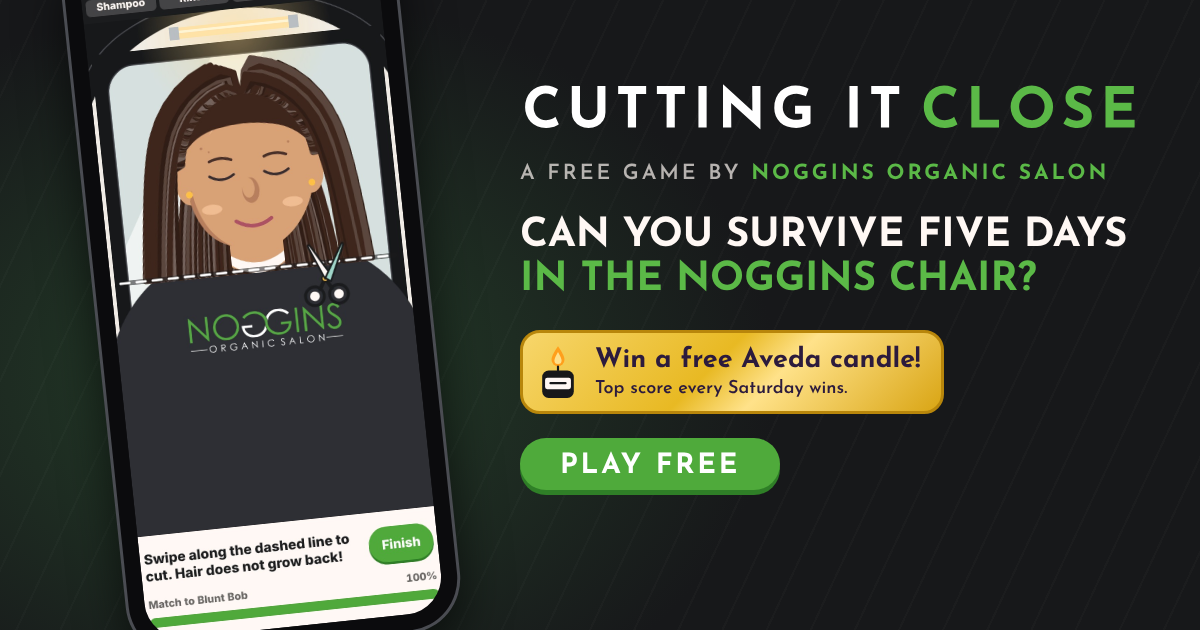
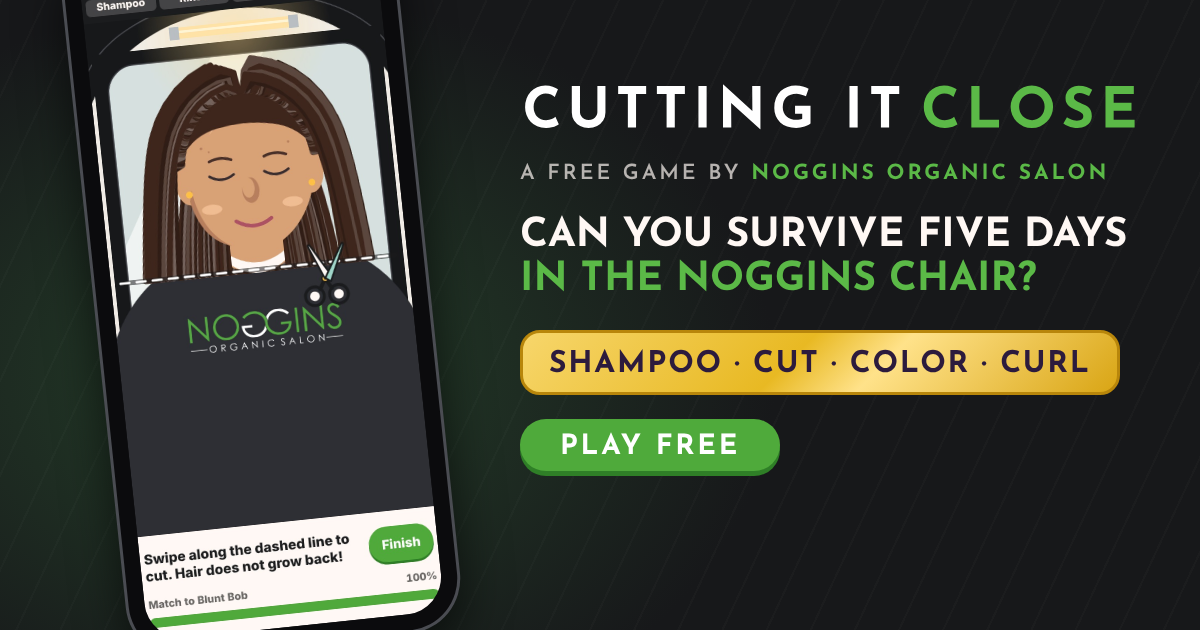
Generic link preview: no giveaway in the share picture or text
Claude-Session: https://claude.ai/code/session_01Sd2Ap7vipF3NZiTakFqJn7

Changed region(s): [[0.4317, 0.5127, 0.9558, 0.7841]]

diff --git a/index.html b/index.html
@@ -1,4 +1,4 @@
-<!doctype html><html lang="en"><head><meta charset="utf-8"><meta name="viewport" content="width=device-width,initial-scale=1,maximum-scale=1,user-scalable=no,viewport-fit=cover"><meta name="apple-mobile-web-app-capable" content="yes"><meta name="mobile-web-app-capable" content="yes"><meta name="apple-mobile-web-app-title" content="Cutting It Close"><meta name="apple-mobile-web-app-status-bar-style" content="black"><link rel="apple-touch-icon" href="apple-touch-icon.png"><link rel="icon" type="image/png" sizes="192x192" href="icon-192.png"><link rel="manifest" href="manifest.json"><meta name="description" content="Can you survive five days in the Noggins chair? A free salon game by Noggins Organic Salon. Top score every Saturday wins a free Aveda candle."><meta property="og:type" content="website"><meta property="og:url" content="https://gareth23broad.github.io/cutting-it-close/"><meta property="og:site_name" content="Noggins Organic Salon"><meta property="og:title" content="Cutting It Close: a free game by Noggins Organic Salon"><meta property="og:description" content="Can you survive five days in the Noggins chair? Top score every Saturday wins a free Aveda candle."><meta property="og:image" content="https://gareth23broad.github.io/cutting-it-close/share.png"><meta property="og:image:width" content="1200"><meta property="og:image:height" content="630"><meta property="og:image:alt" content="Cutting It Close: a phone showing the salon game, with Win a free Aveda candle and Play free"><meta name="twitter:card" content="summary_large_image"><meta name="twitter:image" content="https://gareth23broad.github.io/cutting-it-close/share.png"><meta name="theme-color" content="#17181A"><style>html,body{margin:0;padding:0}</style></head><body><title>Cutting It Close</title>
+<!doctype html><html lang="en"><head><meta charset="utf-8"><meta name="viewport" content="width=device-width,initial-scale=1,maximum-scale=1,user-scalable=no,viewport-fit=cover"><meta name="apple-mobile-web-app-capable" content="yes"><meta name="mobile-web-app-capable" content="yes"><meta name="apple-mobile-web-app-title" content="Cutting It Close"><meta name="apple-mobile-web-app-status-bar-style" content="black"><link rel="apple-touch-icon" href="apple-touch-icon.png"><link rel="icon" type="image/png" sizes="192x192" href="icon-192.png"><link rel="manifest" href="manifest.json"><meta name="description" content="Can you survive five days in the Noggins chair? A free salon game by Noggins Organic Salon. Shampoo, cut, color and curl your way to the top of the leaderboard."><meta property="og:type" content="website"><meta property="og:url" content="https://gareth23broad.github.io/cutting-it-close/"><meta property="og:site_name" content="Noggins Organic Salon"><meta property="og:title" content="Cutting It Close: a free game by Noggins Organic Salon"><meta property="og:description" content="Can you survive five days in the Noggins chair? Shampoo, cut, color and curl. Free on your phone, no app needed."><meta property="og:image" content="https://gareth23broad.github.io/cutting-it-close/share.png"><meta property="og:image:width" content="1200"><meta property="og:image:height" content="630"><meta property="og:image:alt" content="Cutting It Close: a phone showing the salon game, with Shampoo, Cut, Color, Curl and Play free"><meta name="twitter:card" content="summary_large_image"><meta name="twitter:image" content="https://gareth23broad.github.io/cutting-it-close/share.png"><meta name="theme-color" content="#17181A"><style>html,body{margin:0;padding:0}</style></head><body><title>Cutting It Close</title>
 <meta name="claude:viewport-fit-sides" content="cover">
 <link rel="preconnect" href="https://fonts.googleapis.com">
 <link rel="stylesheet" href="https://fonts.googleapis.com/css2?family=Nunito:wght@600;800;900&family=Josefin+Sans:wght@600;700&display=swap">
